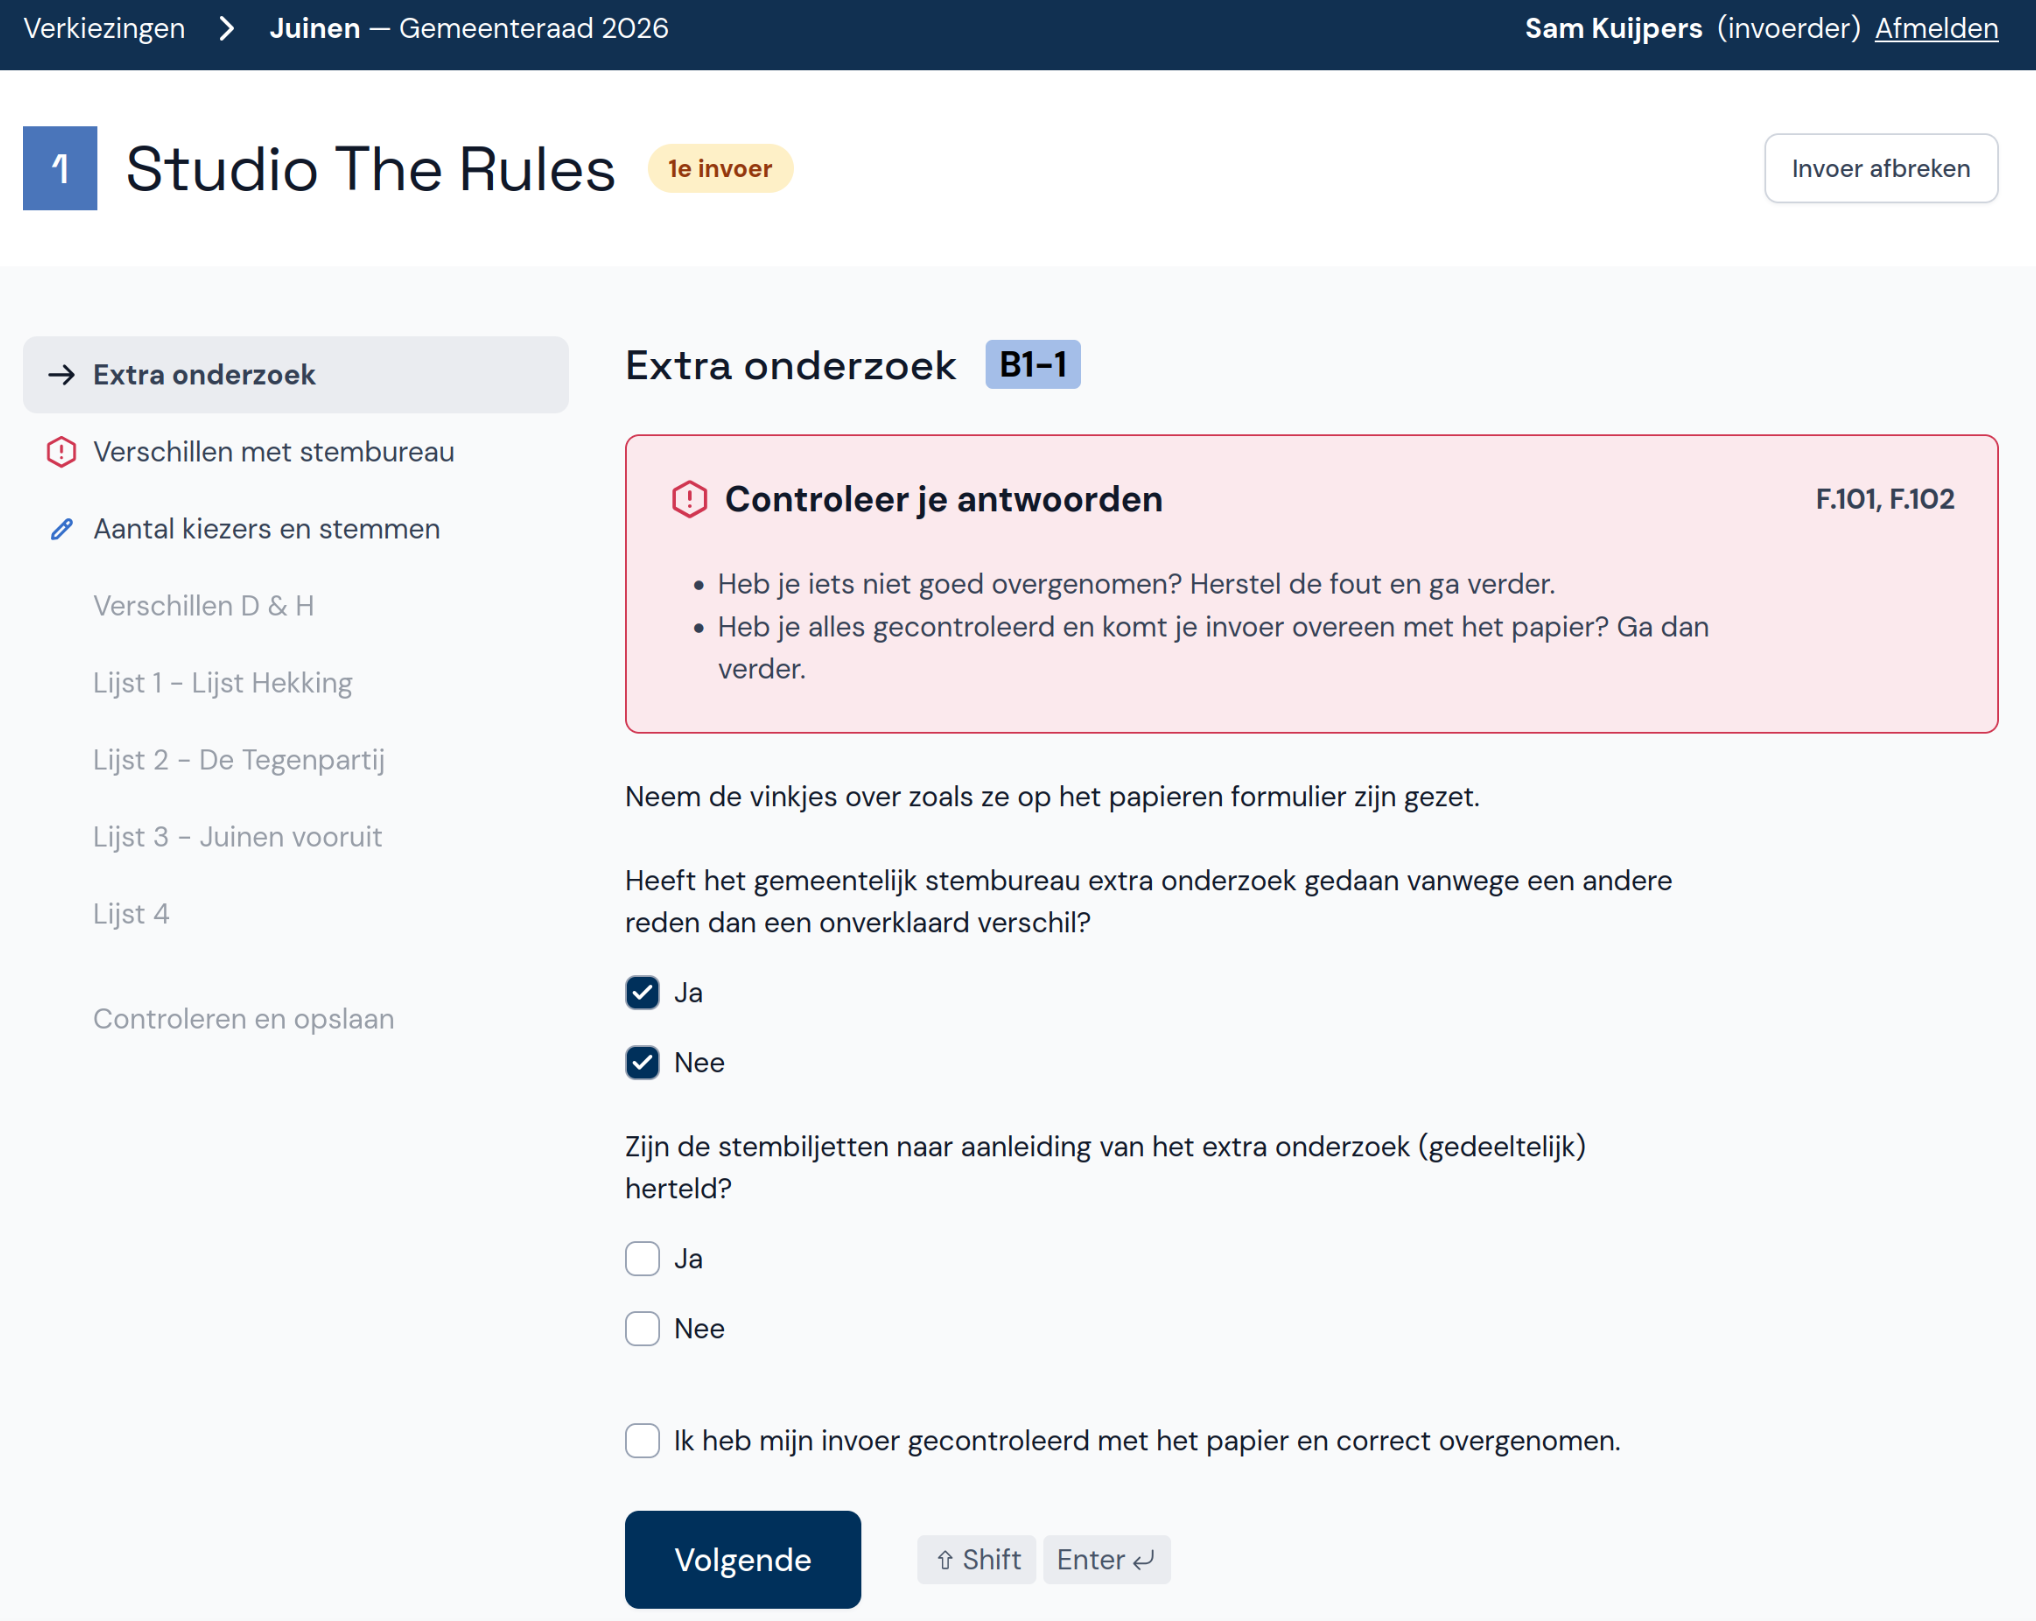
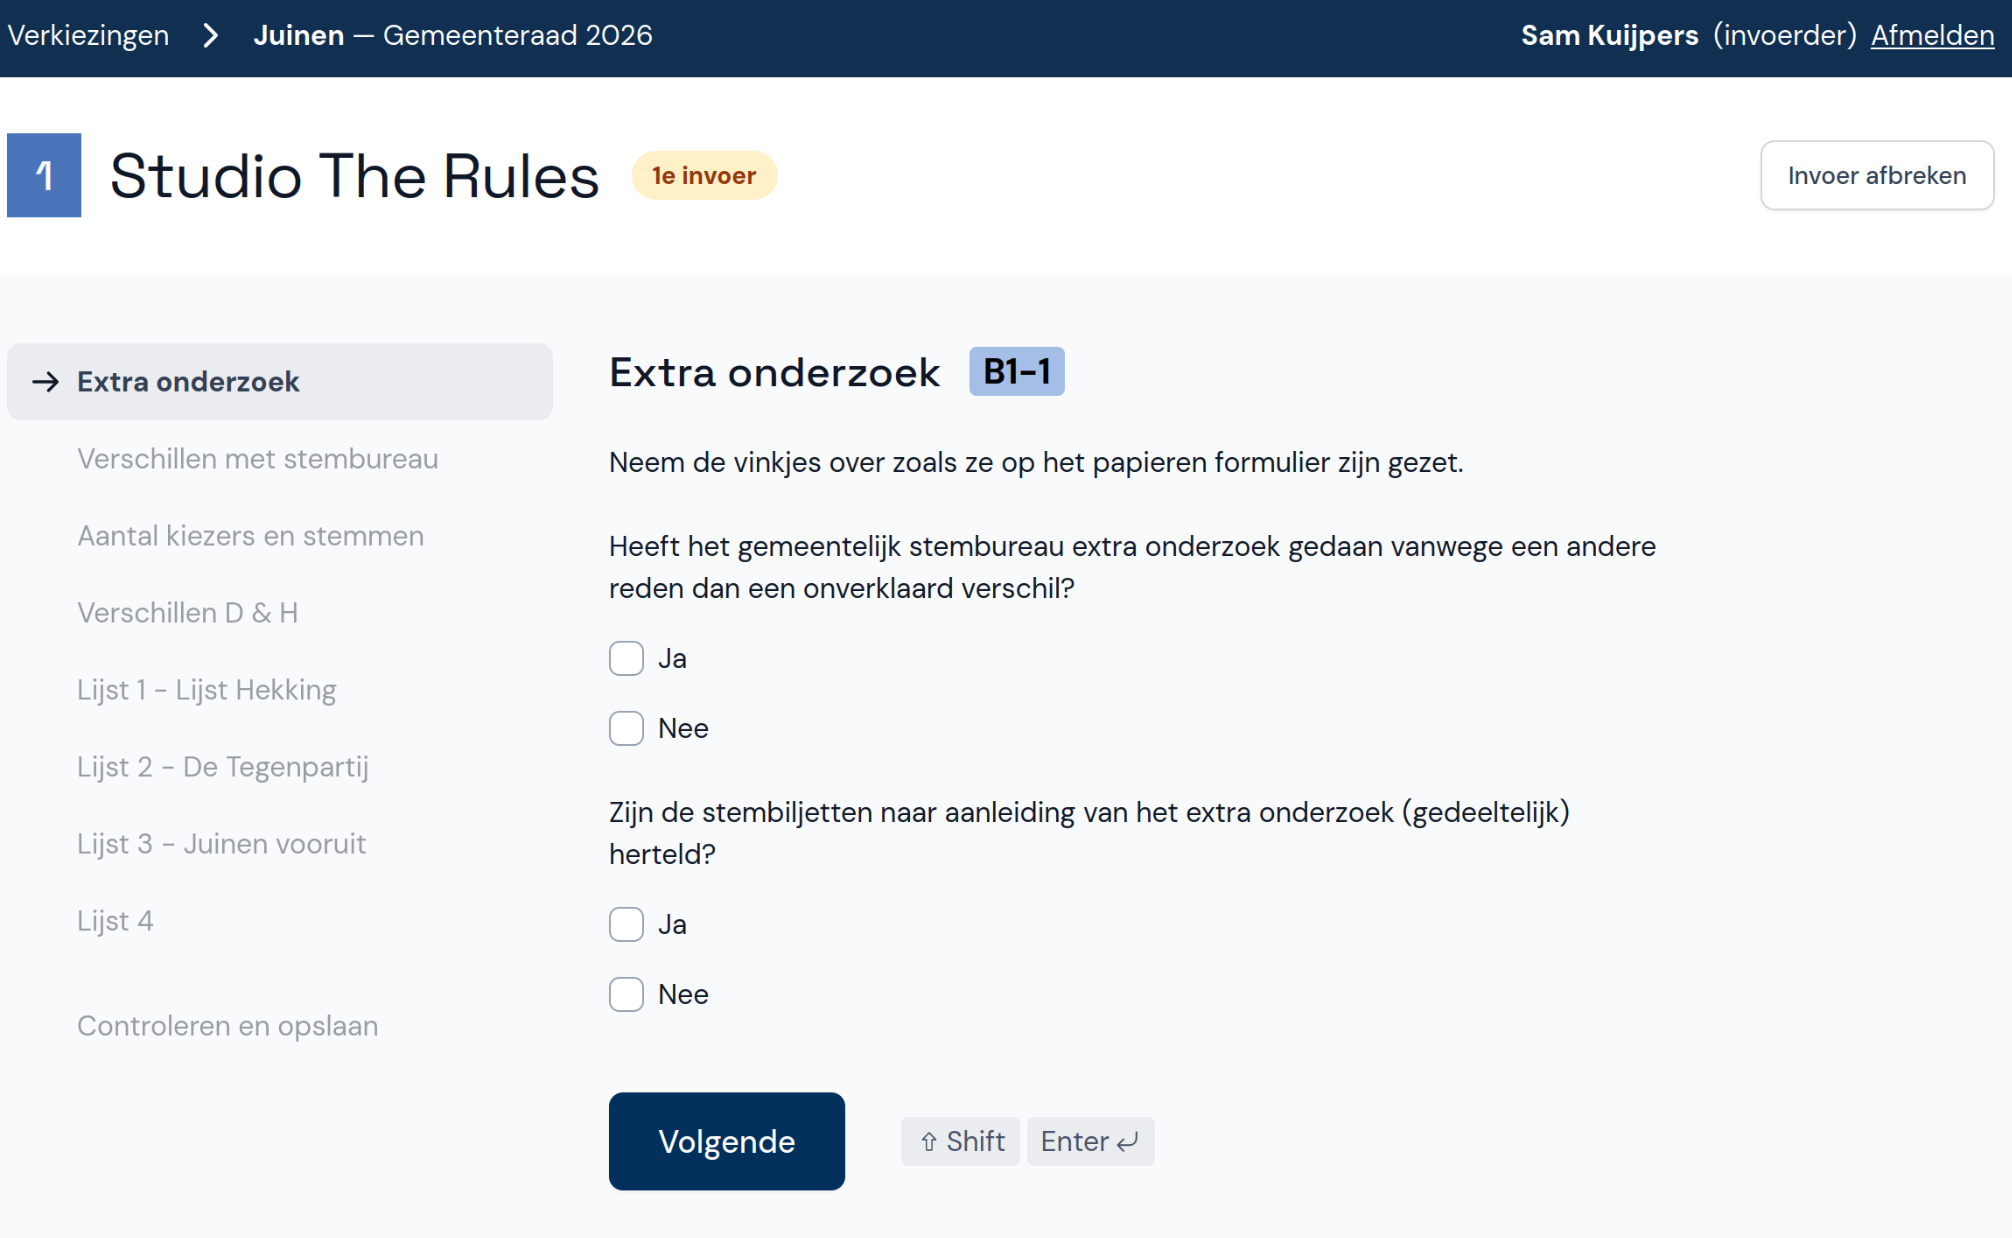
Orde in de chaos
- Info vooraf stond al deels in cheatsheet, de rest daarheen verhuisd
- Gelinkt naar cheatsheet in invoer
- Plaatje 'extra onderzoek' gewijzigd naar plaatje zonder foutmelding

diff --git a/src/instructies-invoerder.md b/src/instructies-invoerder.md
@@ -6,41 +6,7 @@ Na het tellen van de stemmen wordt voor elk stembureau een proces-verbaal ingevu
 
 Elk stembureau wordt twee keer ingevoerd (door twee verschillende invoerders). De tweede invoerder krijgt een waarschuwing als diens invoer afwijkt van de eerste invoerder. Ook hier geldt dat je de instructies volgt of overlegt met je coördinator. Na de tweede invoer controleert Abacus of de eerste en tweede invoer overeenkomen. Als alles klopt is de invoer van het betreffende stembureau compleet.
 
-## 1. Informatie vooraf
-
-### 1.1. Navigeren
-
-Je kunt in Abacus een aantal sneltoetsen gebruiken waarmee je handig naar andere velden navigeert. Dit zijn de sneltoetsen:
-
-- Met `tab ↹`, `pijl omlaag ↓` of `enter ⏎` ga je naar het volgende veld.
-- Met `shift ⇧`+`tab ↹` of `pijl omhoog ↑` ga je naar het vorige veld.
-- Met `shift ⇧`+`pijl omlaag ↓` ga je naar het laatste veld op de pagina. Dit is handig als je geen aantallen meer hoeft in te vullen bij kandidaten en direct het totaal wilt invullen.
-- Met `shift ⇧`+`enter ⏎` ga je naar de volgende pagina/lijst.
-
-**Let op:** Je hoeft geen nullen in te voeren. Als je een veld leeg laat, wordt dat gezien als een nul. Je kunt direct met `tab ↹` naar het volgende veld gaan.
-
-### 1.2. Fouten en waarschuwingen
-
-Tijdens de invoer kunnen er fouten en waarschuwingen ontstaan. In alle gevallen doe je het volgende:
-
-- Controleer of je invoer overeenkomt met het papier en herstel eventuele fouten.
-- Als alles klopt zet je een vinkje bij **Ik heb mijn invoer gecontroleerd met het papier en correct overgenomen** en klik je weer op **Volgende**.
-- Kom je er niet uit? Overleg dan met de coördinator.
-
-![Fouten en waarschuwingen](./img/invoeren-fouten-waarschuwingen.png)
-
-### 1.3. Tweede invoer
-
-- Bij het stembureau staat ook aangegeven of je de eerste invoer of tweede invoer gaat doen. Voor beide invoeren zijn de instructies hetzelfde.
-- Bij een tweede invoer zie je mogelijk extra waarschuwingen als jouw invoer verschilt met de eerste invoer. Zorg dan dat je invoer overeenkomt met het papier en herstel eventuele fouten. Als alles klopt zet je een vinkje bij **Ik heb mijn invoer gecontroleerd met het papier en correct overgenomen** en klik je weer op **Volgende**.
-
-![Tweede invoer extra controle](./img/invoeren-2e-invoer-extra-controle.png)
-
-- Aan het einde van de invoer zie je de waarschuwingen en fouten nog een keer. Bespreek eerst de fouten met de coördinator. Als alles klopt zet je een vinkje bij **Ik heb de fouten besproken met de coördinator** en klik je op **Afronden**.
-
-![Tweede invoer controleren en opslaan](./img/invoeren-2e-invoer-controleren-opslaan.png)
-
-## 2. Inloggen en account instellen
+## 1. Inloggen en account instellen
 
 Je krijgt inloginstructies van je coördinator. Vul de gegevens in en klik op **Inloggen**. Als je al eerder ingelogd hebt, gebruik je het door jou ingestelde wachtwoord.
 
@@ -48,9 +14,18 @@ Wanneer je voor de eerste keer inlogt, stel je je account eerst in voor gebruik.
 
 ![Account instellen](./img/invoeren-account-instellen.png)
 
-## 3. Stembureau invoeren
+## 2. Stembureau invoeren
 
-### 3.1. Verkiezing en stembureau selecteren
+In de volgende stappen lees je hoe je een stembureau invoert. Gebruik hierbij de [cheatsheet](cheatsheet.md) met daarin de volgende informatie:
+
+- [Hoe je kunt invoeren en welke sneltoetsen je gebruikt](cheatsheet.md#invoeren-en-sneltoetsen)
+- [Wat je moet doen bij waarschuwingen en fouten](cheatsheet.md#waarschuwingen-en-fouten)
+- [Hoe je een tweede invoer afrondt](cheatsheet.md#tweede-invoer)
+- [Hoe je de invoer kunt pauzeren of onderbreken](cheatsheet.md#pauzeren-of-onderbreken)
+
+ **Let op:** je mag het papieren proces-verbaal niet aanpassen, ook niet als je fouten ziet. In dat geval neem je de foute invoer over zoals het op het papier staat.
+
+### 2.1. Verkiezing en stembureau selecteren
 
 Selecteer eerst de verkiezing waarvoor je stemmen wilt invoeren. Hier zie je ook wat de status van de verkiezing is.
 
@@ -63,35 +38,33 @@ Selecteer nu het stembureau:
 
 ![Stembureau kiezen](./img/invoeren-stembureau-kiezen.png)
 
-### 3.2. Extra onderzoek
+### 2.2. Extra onderzoek
 
 Op pagina 1 van het papieren formulier is aangegeven of er extra onderzoek is uitgevoerd.
 
-- Neem de vinkjes over zoals ze in het proces-verbaal staan en klik op **Volgende**.
-- Je ziet een fout als er twee vinkjes zijn gezet bij dezelfde vraag.
-- Als de vragen op het papier niet zijn ingevuld, dan is er geen extra onderzoek uitgevoerd en kun je direct doorgaan naar de volgende pagina.
+Neem de vinkjes over zoals ze in het proces-verbaal staan en klik op **Volgende**.
 
 ![Extra onderzoek](./img/invoeren-extra-onderzoek.png)
 
-### 3.3. Verschillen met stembureau
+Als de vragen op het papier niet zijn ingevuld, dan is er geen extra onderzoek uitgevoerd en kun je direct doorgaan naar de volgende pagina.
+
+### 2.3. Verschillen met stembureau
 
 Op pagina 2 van het papieren formulier is aangegeven of er verschillen zijn met de telresultaten van het stembureau.
 
-- Neem de vinkjes over zoals ze in het proces-verbaal staan en klik op **Volgende**.
-- Je ziet een fout als er twee vinkjes staan bij dezelfde vraag of als er niets is ingevuld.
+Neem de vinkjes over zoals ze in het proces-verbaal staan en klik op **Volgende**.
 
 ![Verschillen met stembureau](./img/invoeren-verschillen-stembureau.png)
 
-### 3.4. Aantal kiezers en stemmen
+### 2.4. Aantal kiezers en stemmen
 
 Nu voer je de toegelaten kiezers en uitgebrachte stemmen in. Dit zijn de velden A tot en met H in rubriek B1 - 3.1 en 3.2 op pagina 4 en 5 van het papieren formulier.
 
-- Neem de cijfers over zoals ze in het proces-verbaal staan en klik op **Volgende**.
-- Je ziet een fout of waarschuwingen als de aantallen niet kloppen of afwijkingen bevatten.
+Neem de cijfers over zoals ze in het proces-verbaal staan en klik op **Volgende**.
 
 ![Toegelaten kiezers en uitgebrachte stemmen](./img/invoeren-kiezers-stemmen.png)
 
-### 3.5. Verschillen D & H
+### 2.5. Verschillen D & H
 
 Op pagina 6 van het papieren formulier is aangegeven of er verschillen zijn tussen het aantal kiezers en het aantal uitgebrachte stemmen.
 
@@ -99,30 +72,16 @@ Neem de vinkjes en cijfers over zoals ze in het proces-verbaal staan en klik op 
 
 ![Verschillen tussen toegelaten kiezers en uitgebrachte stemmen](./img/invoeren-verschillen-dh.png)
 
-### 3.6. Lijsten
+### 2.6. Lijsten
 
-Nu ga je invoeren hoeveel stemmen zijn geteld voor elke kandidaat op elke lijst. Neem de cijfers over zoals ze in het proces-verbaal staan.
-
-- Lege velden en velden met een nul op het proces-verbaal kun je ook leeglaten in Abacus.
-- Als je bij de kandidaten alle aantallen hebt ingevuld en je tot het totaal alleen maar lege velden ziet, ga je met `shift ⇧`+`pijl omlaag ↓` direct naar het invoerveld voor het totaal.
-- Als je klaar bent met het invoeren van de lijst, klik je op **Volgende** of druk je op `shift ⇧`+`enter ⏎` om naar de volgende lijst te gaan.
-- Je ziet een fout of waarschuwing als de opgetelde stemmen en het totaal niet gelijk zijn.
-- Op het proces-verbaal staan ook velden voor het subtotaal van elke kolom. Deze kun je negeren.
+Nu ga je invoeren hoeveel stemmen zijn geteld voor elke kandidaat op elke lijst. Neem de cijfers over zoals ze in het proces-verbaal staan. Hierbij gebruik je de sneltoetsen en instructies in de [cheatsheet](cheatsheet.md#invoeren-en-sneltoetsen).
 
 ![Lijst invoeren](./img/invoeren-lijst.png)
 
-### 3.7. Controleren en opslaan
+### 2.7. Controleren en opslaan
 
 Wanneer je de laatste lijst hebt ingevoerd, klik je op **Volgende**. De invoer wordt nu gecontroleerd en je ziet of er waarschuwingen zijn. Klik nu op **Opslaan**.
 
 ![Controleren en opslaan](./img/invoeren-controleren-opslaan.png)
 
 Als je nog een stembureau wilt invoeren, kun je direct een ander stembureaunummer invullen of een stembureau uit de lijst kiezen.
-
-## 4. Invoer afbreken
-
-Het kan zijn dat je even pauze wilt nemen of de invoer om een andere reden wilt onderbreken. Je kunt ook de invoer weggooien om eventueel opnieuw te beginnen.
-
-- Klik op **Invoer afbreken**. In een popup wordt gevraagd of je de invoer wilt bewaren:
-  - Als je alleen wilt pauzeren, klik je op **Invoer bewaren**. Na je pauze klik je onder **Je hebt nog een openstaande invoer** op het stembureau en kun je doorgaan waar je gebleven was.
-  - Wil je de invoer weggooien, klik dan op **Niet bewaren**.

diff --git a/src/cheatsheet.md b/src/cheatsheet.md
@@ -9,16 +9,33 @@ Met het toetsenbord kun je snel door de pagina's heen nagiveren. Hiervoor gebrui
 - Met `tab ↹`, `pijl omlaag ↓` of `enter ⏎` ga je naar het volgende veld.
 - Met `shift ⇧`+`tab ↹` of `pijl omhoog ↑` ga je naar het vorige veld.
 - Met `shift ⇧`+`pijl omlaag ↓` ga je naar het laatste veld op de pagina. Dit is handig als je geen aantallen meer hoeft in te vullen bij kandidaten en direct het totaal wilt invullen.
-- Met `shift ⇧`+`enter ⏎` ga je naar de volgende pagina/lijst.
+- Met de knop **Volgende** of met `shift ⇧`+`enter ⏎` ga je naar de volgende pagina/lijst.
 
-**Let op:** Je hoeft geen nullen in te voeren. Als je een veld leeg laat, wordt dat gezien als een nul. Je kunt direct met `tab ↹` naar het volgende veld gaan.
+Tips:
+
+- Je hoeft geen nullen in te voeren. Als je een veld leeg laat, wordt dat gezien als een nul. Je kunt direct met `tab ↹` naar het volgende veld gaan.
+- Op het proces-verbaal staan ook velden voor het subtotaal van elke kolom. Deze kun je negeren.
 
 ## Waarschuwingen en fouten
 
 Bij waarschuwingen en fouten doe je het volgende:
 
-- Als je een fout of waarschuwing tegenkomt, controleer je of je het papieren proces-verbaal goed hebt overgenomen. Abacus laat duidelijk zien welke velden je extra moet controleren. Als alles klopt, vink je de optie **Ik heb mijn invoer gecontroleerd met het papier en correct overgenomen** aan en kun je doorgaan naar de volgende pagina.
+- Controleer of je het papieren proces-verbaal goed hebt overgenomen en herstel eventueel je invoer. Abacus laat duidelijk zien welke velden je extra moet controleren. **Let op:** je mag het papieren proces-verbaal niet aanpassen, ook niet als je fouten ziet. In dat geval neem je de foute invoer over zoals het op het papier staat.
+- Als alles klopt, vink je de optie **Ik heb mijn invoer gecontroleerd met het papier en correct overgenomen** aan en kun je doorgaan naar de volgende pagina.
 - In het algemeen geldt: als je niet zeker weet wat je moet doen, overleg dan met je coördinator.
+
+![Fouten en waarschuwingen](./img/invoeren-fouten-waarschuwingen.png)
+
+## Tweede invoer
+
+Bij een tweede invoer zie je mogelijk extra waarschuwingen als jouw invoer verschilt met de eerste invoer. Deze los je ook op volgens de instructies bij [Waarschuwingen en fouten](#waarschuwingen-en-fouten).
+
+![Tweede invoer extra controle](./img/invoeren-2e-invoer-extra-controle.png)
+
+Aan het einde van de invoer zie je de waarschuwingen en fouten nog een keer. Bespreek eerst de fouten met de coördinator.
+Als alles klopt zet je een vinkje bij **Ik heb de fouten besproken met de coördinator** en klik je op **Afronden**.
+
+![Tweede invoer controleren en opslaan](./img/invoeren-2e-invoer-controleren-opslaan.png)
 
 ## Pauzeren of onderbreken
 
